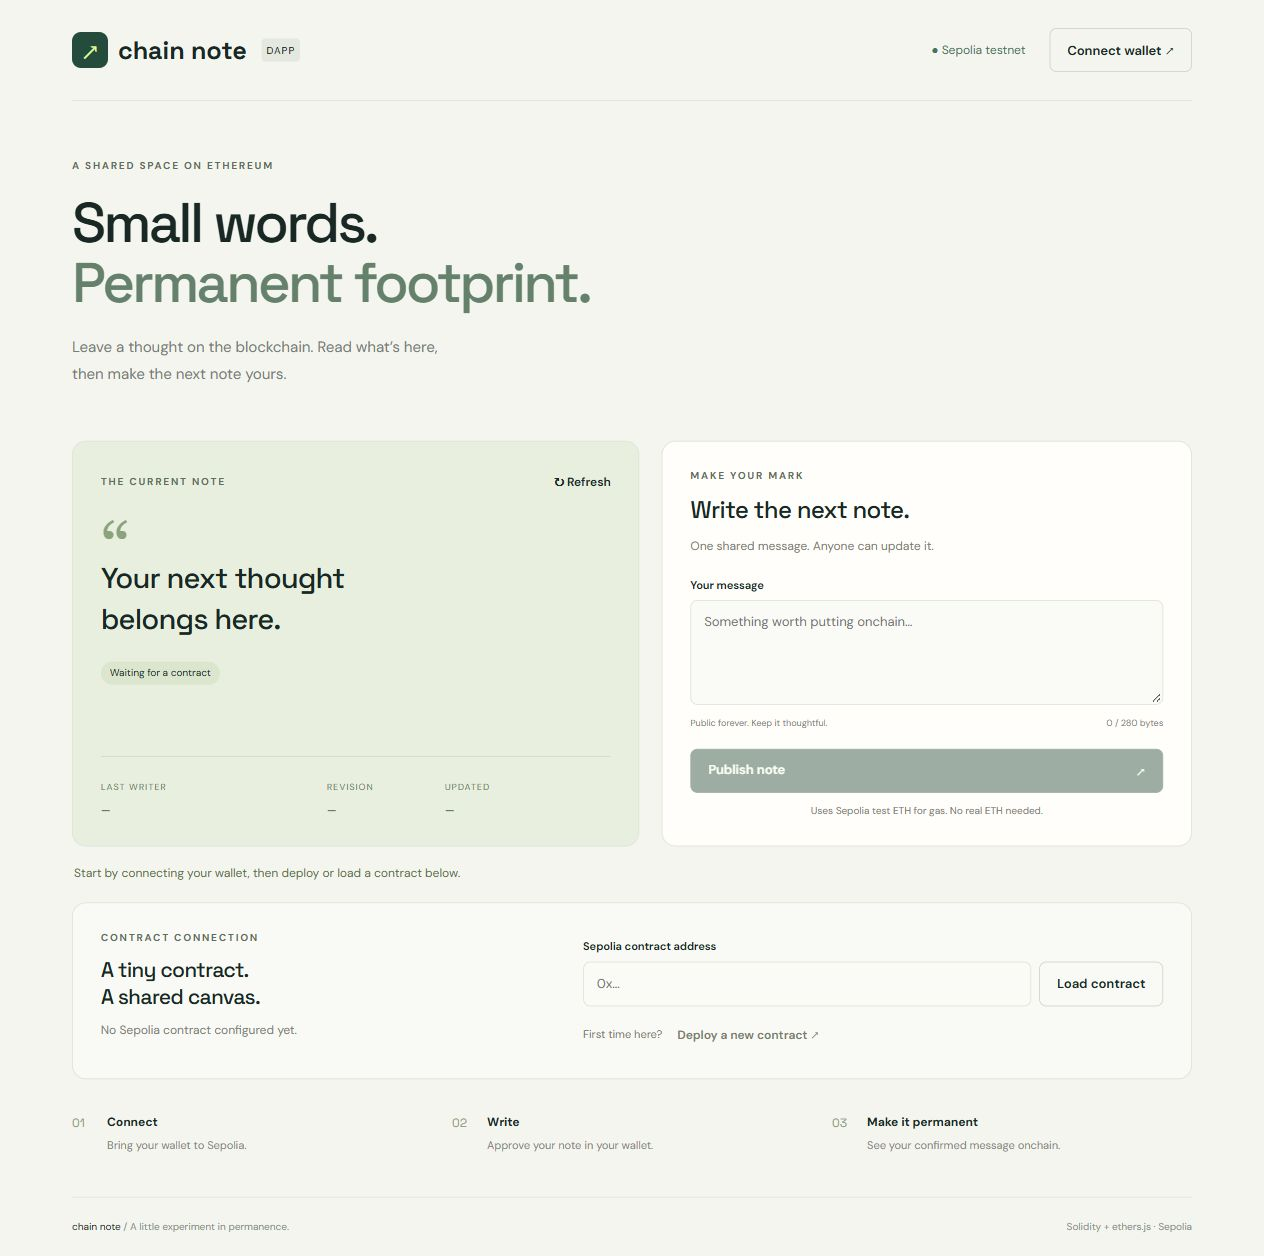
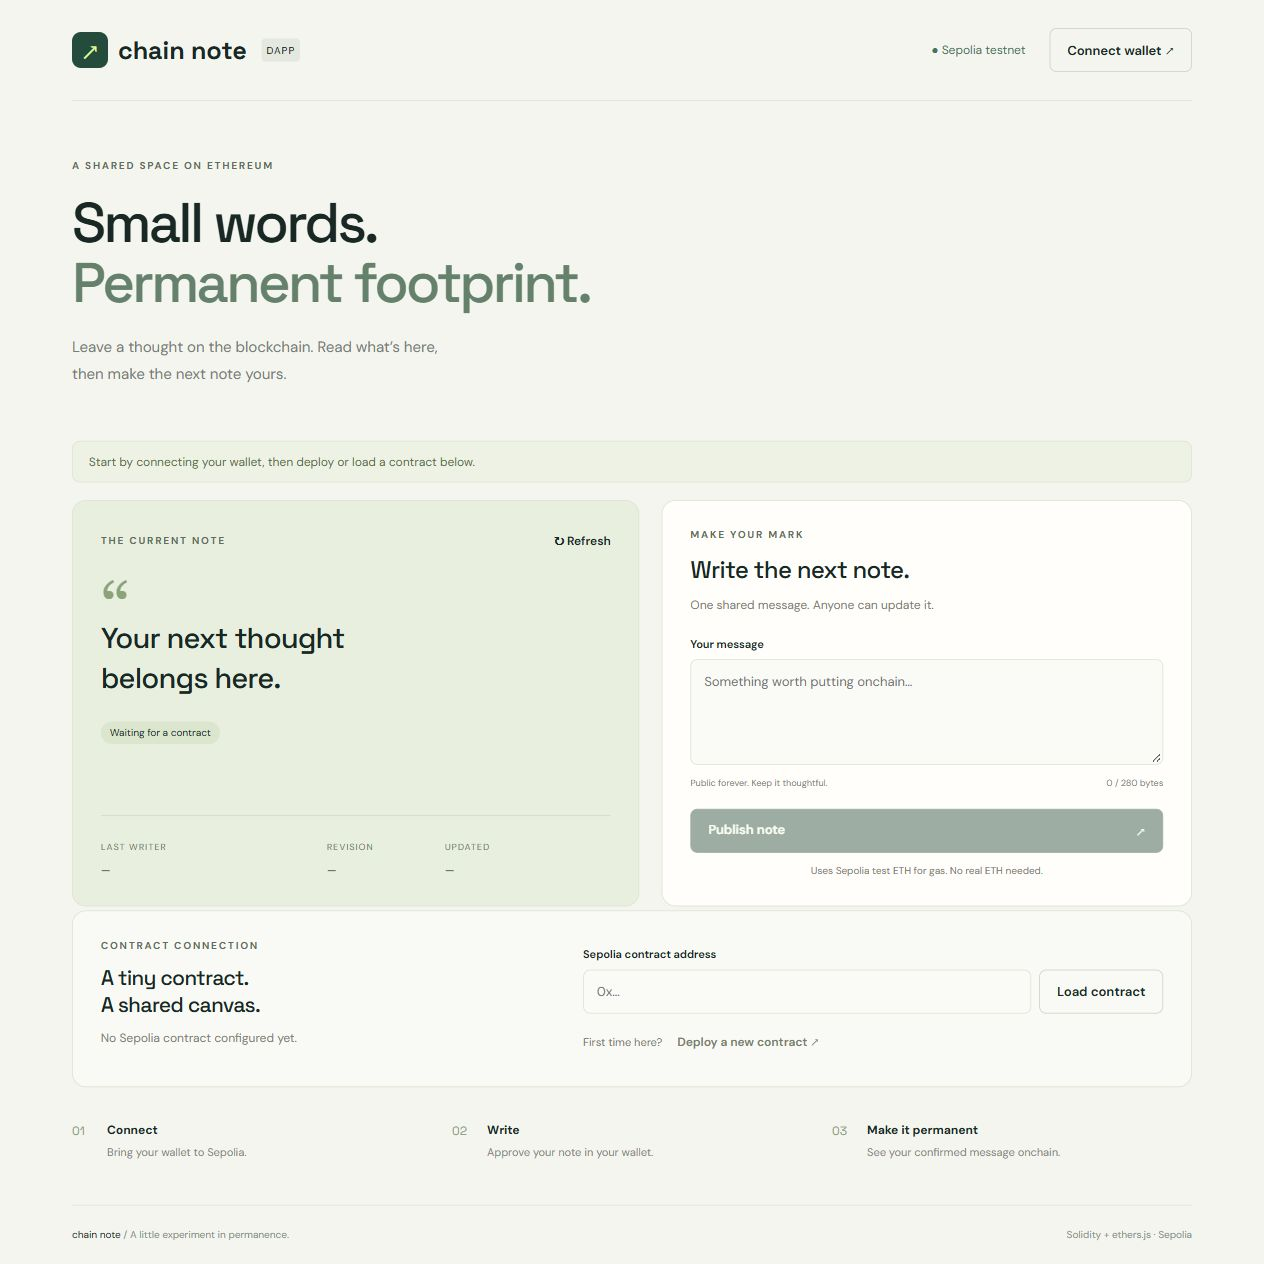
Make wallet errors visible and add transaction gas margin

diff --git a/src/style.css b/src/style.css
@@ -1,2 +1,3 @@
 @import url('https://fonts.googleapis.com/css2?family=DM+Sans:wght@400;500;600;700&family=Space+Grotesk:wght@400;500;600;700&display=swap');
 :root{font-family:'DM Sans',sans-serif;color:#192824;background:#f4f5ef;font-synthesis:none}*{box-sizing:border-box}body{margin:0}.shell{max-width:1200px;margin:auto;padding:0 40px}header{display:flex;justify-content:space-between;align-items:center;padding:28px 0;border-bottom:1px solid #dce1d6}.brand{font-family:'Space Grotesk',sans-serif;font-size:25px;font-weight:700;display:flex;align-items:center;gap:10px;color:inherit;text-decoration:none}.logo{display:grid;place-items:center;background:#244b3c;color:#e2f79e;width:36px;height:36px;border-radius:9px}.badge{font:10px 'DM Sans';letter-spacing:1px;background:#e5e8df;border-radius:4px;padding:5px;margin-left:5px}.wallet{display:flex;align-items:center;gap:24px}.network{font-size:12px;color:#47745d}button{font:600 13px 'DM Sans',sans-serif;border:1px solid #cad2c6;background:transparent;border-radius:7px;padding:12px 17px;cursor:pointer;color:inherit}button:hover{background:#e8eddf}button:disabled{opacity:.45;cursor:not-allowed}button:focus-visible,input:focus-visible,textarea:focus-visible,a:focus-visible{outline:3px solid #80a36a;outline-offset:3px}.intro{padding:58px 0 38px}.eyebrow{font-size:10px;font-weight:700;letter-spacing:1.8px;color:#5e6e60}h1{font-family:'Space Grotesk',sans-serif;font-size:56px;font-weight:500;letter-spacing:-2.7px;line-height:1.09;margin:20px 0}h1 span{color:#66816b}.intro p{font-size:15px;color:#748074;line-height:1.8}.grid{display:grid;grid-template-columns:1.07fr 1fr;gap:22px}.card{border:1px solid #dce2d4;border-radius:14px;padding:28px}.note{background:#e8efdf;display:flex;flex-direction:column;min-height:350px;position:relative}.card-top{display:flex;justify-content:space-between;align-items:center}.text-button{padding:4px 0;border:0;background:none;font-size:12px}.quote-mark{font-family:Georgia,serif;color:#8ba27b;font-size:72px;line-height:1;margin-top:20px;height:45px}.message{font:500 29px/1.4 'Space Grotesk',sans-serif;letter-spacing:-.8px;margin:0 0 22px;overflow-wrap:anywhere;white-space:pre-wrap}.pill{font-size:10px;background:#dce6cf;padding:5px 9px;border-radius:20px;align-self:flex-start}.metadata{display:grid;grid-template-columns:1.3fr .65fr 1fr;gap:10px;border-top:1px solid #ced9c2;margin-top:auto;padding-top:18px}.metadata span{font-size:9px;letter-spacing:1px;color:#6c7c64}.metadata p{font-size:11px;margin:8px 0 0;overflow-wrap:anywhere}.compose{background:#fffefa}h2{font:500 24px/1.3 'Space Grotesk',sans-serif;letter-spacing:-.7px;margin:12px 0}.compose>p,.setup p{font-size:12px;color:#798272}label{display:block;font-size:11px;font-weight:600;margin:24px 0 8px}textarea,input{font:13px 'DM Sans',sans-serif;background:#fafbf7;border:1px solid #dce2d4;border-radius:7px;padding:13px;width:100%;color:inherit}textarea{resize:vertical;min-height:105px}.field-bottom{display:flex;justify-content:space-between;gap:8px;font-size:9px;color:#7c8576;margin:8px 0 20px}.primary{width:100%;background:#264c3c;color:#f4ffe7;border-color:#264c3c;display:flex;justify-content:space-between}.primary:hover{background:#38634e}.compose .gas-note{text-align:center;font-size:10px;margin:12px 0 0}#status{font-size:12px;padding:18px 2px;color:#587048;overflow-wrap:anywhere}#status.error{color:#a23229}#transaction{display:block;font-size:12px;margin:0 0 18px;color:#3b6946;overflow-wrap:anywhere}#transaction[hidden]{display:none}.setup{margin-top:4px;display:grid;grid-template-columns:1fr 1.3fr;gap:36px;background:#f9faf5}.setup h2{font-size:21px}.setup-controls label{margin-top:8px}.address-row{display:flex;gap:8px}.address-row input{min-width:0}.address-row button{white-space:nowrap}.deploy-row{display:flex;gap:15px;align-items:center;margin-top:16px;font-size:11px;color:#75806b}#contract-info{overflow-wrap:anywhere}.steps{display:grid;grid-template-columns:repeat(3,1fr);gap:20px;margin:35px 0 45px}.steps>div{position:relative;padding-left:35px}.steps span{position:absolute;left:0;top:1px;font:12px 'Space Grotesk';color:#8da280}.steps h3{font-size:12px;margin:0 0 7px}.steps p{font-size:11px;color:#7f8879;margin:0}footer{display:flex;justify-content:space-between;border-top:1px solid #dce1d6;padding:23px 0;font-size:10px}.muted,footer>span+span{color:#87917f}@media(max-width:700px){.shell{padding:0 20px}header{padding:20px 0}.brand{font-size:21px}.badge,.network{display:none}.wallet{gap:0}h1{font-size:41px;letter-spacing:-2px}.intro{padding:38px 0 22px}.grid,.setup{grid-template-columns:1fr}.card{padding:23px}.note{min-height:320px}.setup{gap:10px}.steps{grid-template-columns:1fr;gap:24px}footer{gap:20px;line-height:1.6}.desktop{display:none}}
+#status{margin:0 0 18px;padding:12px 16px;border:1px solid #dce2d4;border-radius:8px;background:#edf2e5}#status.error{background:#fff0e9;border-color:#efc4af}

diff --git a/index.html b/index.html
@@ -2,8 +2,8 @@
 <html lang="en"><head><meta charset="UTF-8"><meta name="viewport" content="width=device-width,initial-scale=1"><meta name="description" content="A small message. A permanent record. Chain Note is a simple Ethereum message-board DApp."><title>Chain Note — Leave a little onchain</title></head>
 <body><div class="shell"><header><a class="brand" href="/" aria-label="Chain Note home"><span class="logo">↗</span> chain note<span class="badge">DAPP</span></a><div class="wallet"><span class="network">● Sepolia testnet</span><button id="connect">Connect wallet <span>↗</span></button></div></header>
 <main><section class="intro"><div class="eyebrow">A SHARED SPACE ON ETHEREUM</div><h1>Small words.<br><span>Permanent footprint.</span></h1><p>Leave a thought on the blockchain. Read what’s here,<br class="desktop"> then make the next note yours.</p></section>
-<div class="grid"><section class="note card"><div class="card-top"><span class="eyebrow">THE CURRENT NOTE</span><button id="refresh" class="text-button">↻ Refresh</button></div><div class="quote-mark">“</div><p id="message" class="message">Your next thought<br>belongs here.</p><span id="note-state" class="pill">Waiting for a contract</span><div class="metadata"><div><span>LAST WRITER</span><p id="writer">—</p></div><div><span>REVISION</span><p id="revision">—</p></div><div><span>UPDATED</span><p id="updated">—</p></div></div></section>
+<div id="status" role="status" aria-live="polite">Start by connecting your wallet, then deploy or load a contract below.</div><div class="grid"><section class="note card"><div class="card-top"><span class="eyebrow">THE CURRENT NOTE</span><button id="refresh" class="text-button">↻ Refresh</button></div><div class="quote-mark">“</div><p id="message" class="message">Your next thought<br>belongs here.</p><span id="note-state" class="pill">Waiting for a contract</span><div class="metadata"><div><span>LAST WRITER</span><p id="writer">—</p></div><div><span>REVISION</span><p id="revision">—</p></div><div><span>UPDATED</span><p id="updated">—</p></div></div></section>
 <section class="compose card"><div class="eyebrow">MAKE YOUR MARK</div><h2>Write the next note.</h2><p>One shared message. Anyone can update it.</p><form id="note-form"><label for="draft">Your message</label><textarea id="draft" rows="4" placeholder="Something worth putting onchain…" maxlength="280"></textarea><div class="field-bottom"><span>Public forever. Keep it thoughtful.</span><span id="count">0 / 280 bytes</span></div><button class="primary" id="publish" type="submit" disabled>Publish note <span>↗</span></button></form><p class="gas-note">Uses Sepolia test ETH for gas. No real ETH needed.</p></section></div>
-<div id="status" role="status" aria-live="polite">Start by connecting your wallet, then deploy or load a contract below.</div><a id="transaction" hidden target="_blank" rel="noopener noreferrer">View transaction on Etherscan ↗</a>
+<a id="transaction" hidden target="_blank" rel="noopener noreferrer">View transaction on Etherscan ↗</a>
 <section class="setup card"><div><div class="eyebrow">CONTRACT CONNECTION</div><h2>A tiny contract.<br>A shared canvas.</h2><p id="contract-info">No Sepolia contract configured yet.</p></div><div class="setup-controls"><label for="address">Sepolia contract address</label><div class="address-row"><input id="address" placeholder="0x…" spellcheck="false" autocomplete="off"><button id="load">Load contract</button></div><div class="deploy-row"><span>First time here?</span><button id="deploy" class="text-button">Deploy a new contract ↗</button></div><button id="download" class="text-button" hidden>Download deployment record ↓</button></div></section>
 <section class="steps"><div><span>01</span><h3>Connect</h3><p>Bring your wallet to Sepolia.</p></div><div><span>02</span><h3>Write</h3><p>Approve your note in your wallet.</p></div><div><span>03</span><h3>Make it permanent</h3><p>See your confirmed message onchain.</p></div></section></main><footer><span>chain note <span class="muted">/ A little experiment in permanence.</span></span><span>Solidity + ethers.js · Sepolia</span></footer></div><script type="module" src="/src/main.js"></script></body></html>

diff --git a/src/main.js b/src/main.js
@@ -45,7 +45,7 @@ $('deploy').onclick=()=>run(async()=>{
 });
 $('note-form').onsubmit=e=>{e.preventDefault();run(async()=>{
  await correctNetwork();if(!contract)throw Error('Load a contract first.');const text=$('draft').value.trim();const length=new TextEncoder().encode(text).length;if(!length||length>280)throw Error('Use 1–280 UTF-8 bytes.');
- status('Approve your message in your wallet.');const tx=await contract.setMessage(text);transaction(tx.hash);status('Message submitted. Waiting for a confirmation…');await tx.wait();render(await contract.getNote());$('draft').value='';status('Your note is confirmed on Sepolia.');
+ status('Approve your message in your wallet.');const gas=await contract.setMessage.estimateGas(text);const tx=await contract.setMessage(text,{gasLimit:gas*120n/100n});transaction(tx.hash);status('Message submitted. Waiting for a confirmation…');await tx.wait();render(await contract.getNote());$('draft').value='';status('Your note is confirmed on Sepolia.');
  });};
 $('draft').oninput=controls;
 $('download').onclick=()=>{if(!record)return;const blob=new Blob([JSON.stringify(record,null,2)+'\n'],{type:'application/json'});const url=URL.createObjectURL(blob);const a=document.createElement('a');a.href=url;a.download='sepolia-deployment.json';a.click();setTimeout(()=>URL.revokeObjectURL(url),1000);};
